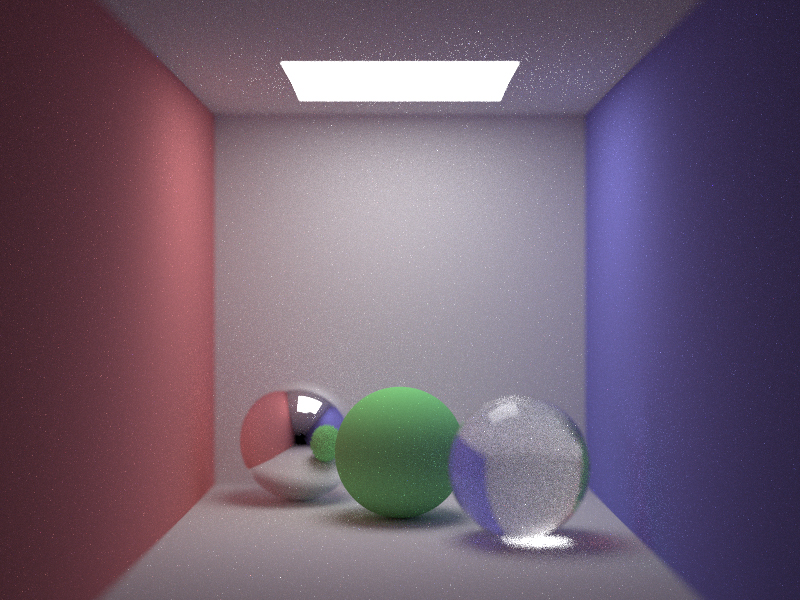
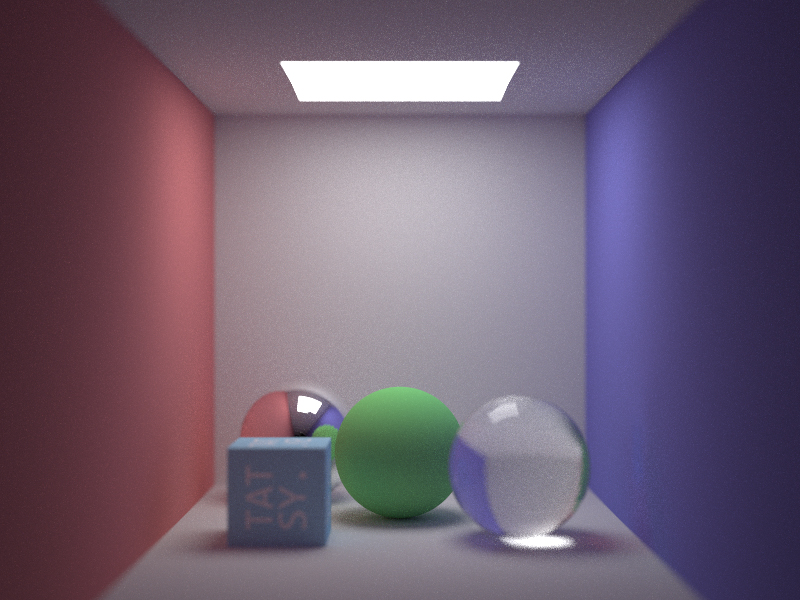
Bug of unidirectional path tracing is fixed.

Changed region(s): [[0.2188, 0.72, 0.4375, 0.93], [0.5938, 0.66, 0.7188, 0.93], [0.5938, 0.81, 0.625, 0.84]]

diff --git a/src/renderer/renderer_helper.cc b/src/renderer/renderer_helper.cc
@@ -32,45 +32,46 @@ namespace spica {
             *v = w.cross(*u);
         }
 
-        bool checkTotalReflection(const bool isIncoming,
+        bool checkTotalReflection(const bool into,
                                   const Vector3D& in,
-                                  const Vector3D& normal,
-                                  const Vector3D& orientNormal,
+                                  const Vector3D& n,
+                                  const Vector3D& on,
                                   Vector3D* reflectDir,
-                                  Vector3D* refractDir,
-                                  double* fresnelRef,
-                                  double* fresnelTransmit) {
+                                  Vector3D* transmitDir,
+                                  double* fresnelRe,
+                                  double* fresnelTr) {
 
-            *reflectDir = Vector3D::reflect(in, normal);
+            *reflectDir = Vector3D::reflect(in, n).normalized();
 
             // Snell's rule
-            const double nnt = isIncoming ? kIorVaccum / kIorObject : kIorObject / kIorVaccum;
-            const double ddn = in.dot(orientNormal);
+            const double nnt = into ? kIorVaccum / kIorObject 
+                                    : kIorObject / kIorVaccum;
+            const double ddn = in.dot(on);
             const double cos2t = 1.0 - nnt * nnt * (1.0 - ddn * ddn);
 
             if (cos2t < 0.0) {
                 // Total reflect
-                *refractDir = Vector3D(0.0, 0.0, 0.0);
-                *fresnelRef = 1.0;
-                *fresnelTransmit = 0.0;
+                *transmitDir = { 0.0, 0.0, 0.0 };
+                *fresnelRe   = 1.0;
+                *fresnelTr   = 0.0;
                 return true;
             }
 
-            *refractDir = (in * nnt - normal * (isIncoming ? 1.0 : -1.0) * (ddn * nnt + sqrt(cos2t))).normalized();
+            *transmitDir = (in * nnt - n * (into ? 1.0 : -1.0) * (ddn * nnt + sqrt(cos2t))).normalized();
 
             const double a = kIorObject - kIorVaccum;
             const double b = kIorObject + kIorVaccum;
             const double R0 = (a * a) / (b * b);
 
-            const double c = 1.0 - (isIncoming ? -ddn : Vector3D::dot(*refractDir, -orientNormal));
-            *fresnelRef = R0 + (1.0 - R0) * (c * c * c * c * c);
-            *fresnelTransmit = 1.0 - (*fresnelRef);
+            const double c = 1.0 - (into ? -ddn : Vector3D::dot(*transmitDir, n));
+            *fresnelRe = R0 + (1.0 - R0) * (c * c * c * c * c);
+            *fresnelTr = (1.0 - (*fresnelRe)) * (nnt * nnt);
 
             return false;
         }
 
         Color radiance(const Scene& scene, const RenderParameters& params,
-                       const Ray& ray, Stack<double>& rands, const int bounces) {
+                       const Ray& ray, Stack<double>& rands, int bounces) {
             if (bounces >= params.bounceLimit()) {
                 return Color::BLACK;
             }

diff --git a/src/renderer/pathtrace.cc b/src/renderer/pathtrace.cc
@@ -101,7 +101,7 @@ namespace spica {
             _result.save(filename);
 
             printf("%6.2f %%  processed -> %s\r",
-                    100.0 * (i + 1) / params.samplePerPixel(), filename);
+                   100.0 * (i + 1) / params.samplePerPixel(), filename);
         }
         printf("\nFinish!!\n");
     }
@@ -154,7 +154,7 @@ namespace spica {
 
         // Account for BSSRDF
         if (bsdf.type() & BsdfType::Bssrdf) {
-            Assertion(_integrator != NULL,
+            Assertion(_integrator != nullptr,
                       "Subsurface intergrator is NULL !!");
             bssrdfRad = bsdf.sampleBssrdf(ray.direction(),
                                           isect.position(),
@@ -185,7 +185,7 @@ namespace spica {
                                      const Vector3D& n, const Color& refl, 
                                      int bounces, Stack<double>& rstk) const {
         // Acquire random numbers
-        const double rands[3] = { rstk.pop(), rstk.pop(), rstk.pop() };
+        const double rands[2] = { rstk.pop(), rstk.pop() };
 
         const BSDF&  bsdf = scene.getBsdf(triID);
 
@@ -220,17 +220,25 @@ namespace spica {
             Vector3D nextdir;
             bsdf.sample(in, n, rands[0], rands[1], &nextdir, &pdf);
             
+            Vector3D on = in.dot(n) < 0.0 ? n : -n;
+
             Intersection isect;
             if (scene.intersect(Ray(v, nextdir), &isect)) {
-                const int objID = isect.objectID();
-                if (scene.isLightCheck(objID)) {
+                if (scene.isLightCheck(isect.objectID())) {
+                    if (bsdf.type() == BsdfType::Refractive) {
+                        if(on.dot(nextdir) < 0.0) {
+                            // printf("pdf = %f\n", pdf);   
+                            // return {};
+                        } else {
+                            // printf("pdf = %f\n", pdf);                            
+                        }
+                    }
                     return (refl * scene.directLight(nextdir)) / pdf;
                 }
             }
         } else {
-            std::cerr << "Invalid BSDF detected: this is "
-                         "neigher scattering nor dielectric!!" << std::endl;
-            std::abort();
+            SpicaError("Invalid BSDF detected: this is "
+                       "neigher scattering nor dielectric!!");
         }
         return Color(0.0, 0.0, 0.0);
     }

diff --git a/src/renderer/bdpt.cc b/src/renderer/bdpt.cc
@@ -136,7 +136,7 @@ namespace spica {
                 return 0.0;
             } else if (fromVert.objtype == ObjectType::Dielectric) {
                 const BSDF& bsdf = scene.getBsdf(fromVert.objectID);
-                if (bsdf.type() == BsdfType::Reflactive) {
+                if (bsdf.type() == BsdfType::Refractive) {
                     if (prevFromVertex != nullptr) {
                         const Vector3D intoFromVertexDir = (fromVert.position - prevFromVertex->position).normalized();
                         const bool isIncoming = intoFromVertexDir.dot(fromVert.objectNormal) < 0.0;
@@ -320,7 +320,7 @@ namespace spica {
                     const Vector3D nextDir = Vector3D::reflect(currentRay.direction(), isect.normal());
                     currentRay = Ray(isect.position(), nextDir);
                     throughput = isect.color() * throughput / (toNextVertex.normalized().dot(orientNormal));
-                } else if (bsdf.type() == BsdfType::Reflactive) {
+                } else if (bsdf.type() == BsdfType::Refractive) {
                     const bool isIncoming = isect.normal().dot(orientNormal) > 0.0;
 
                     Vector3D reflectdir, transdir;
@@ -435,7 +435,7 @@ namespace spica {
                     nowRay = Ray(isect.position(), nextDir);
                     throughput = refl * throughput / (toNextVertex.normalized().dot(orientNormal));
 
-                } else if (bsdf.type() == BsdfType::Reflactive) {
+                } else if (bsdf.type() == BsdfType::Refractive) {
                     const bool isIncoming = isect.normal().dot(orientNormal) > 0.0;
 
                     Vector3D reflectdir, transdir;

diff --git a/src/renderer/renderer_helper.h b/src/renderer/renderer_helper.h
@@ -14,9 +14,9 @@ namespace spica {
 
         /** Calculate u and v axes from w, which is the surface normal.
          */
-        void SPICA_EXPORTS calcLocalCoords(const Vector3D& w, Vector3D* u, Vector3D* v);
+        SPICA_EXPORTS void calcLocalCoords(const Vector3D& w, Vector3D* u, Vector3D* v);
 
-        bool SPICA_EXPORTS checkTotalReflection(const bool isIncoming,
+        SPICA_EXPORTS bool checkTotalReflection(const bool isIncoming,
                                                 const Vector3D& in,
                                                 const Vector3D& normal,
                                                 const Vector3D& orientNormal,
@@ -32,10 +32,10 @@ namespace spica {
          *  @param[in] rseq: random number sequence
          *  @param[in] bounces: # of bounces
          */
-        Color SPICA_EXPORTS radiance(const Scene& scene, const RenderParameters& params,
+        SPICA_EXPORTS Color radiance(const Scene& scene, const RenderParameters& params,
                                      const Ray& ray, Stack<double>& rands, int bounces);
 
-        Color SPICA_EXPORTS directLight(const Scene& scene,
+        SPICA_EXPORTS Color directLight(const Scene& scene,
                                         const Vector3D& pos,
                                         const Vector3D& in,
                                         const Vector3D& normal, 

diff --git a/src/bsdf/brdf.cc b/src/bsdf/brdf.cc
@@ -125,22 +125,22 @@ namespace spica {
         const bool isTotalReflectance = helper::checkTotalReflection(into, in, normal, orientingNormal, &reflectdir, &transmitdir, &fresnelRe, &fresnelTr);
     
         if (isTotalReflectance) {
-            *out = reflectdir;
-            *pdf = 1.0;
+            (*out) = reflectdir;
+            (*pdf) = 1.0;
         } else {
-            const double probability = 0.25 + 0.5 * kReflectProbability;
+            const double probability = 0.25 + 0.5 * fresnelRe;
             if (rand1 < probability) {
-                *pdf = probability / fresnelRe;
-                *out = reflectdir;
+                (*pdf) = probability / fresnelRe;
+                (*out) = reflectdir;
             } else {
-                *pdf = (1.0 - probability) / fresnelTr;
-                *out = transmitdir;
+                (*pdf) = (1.0 - probability) / fresnelTr;
+                (*out) = transmitdir;
             }
         }
     }
 
     BSDF RefractiveBSDF::factory(const Color& reflectance) {
-        return std::move(BSDF(new RefractiveBSDF(reflectance), BsdfType::Reflactive));
+        return std::move(BSDF(new RefractiveBSDF(reflectance), BsdfType::Refractive));
     }
 
     BSDFBase* RefractiveBSDF::clone() const {

diff --git a/src/scenes/predefined_scenes.cc b/src/scenes/predefined_scenes.cc
@@ -46,9 +46,9 @@ namespace spica {
         scene->addShape(Sphere(Vector3D( 0.0, -7.0,  0.0), 3.0),
                         LambertianBRDF::factory(Color(0.25, 0.75, 0.25)));
         scene->addShape(Sphere(Vector3D(-5.0, -7.0, -5.0), 3.0),
-                        SpecularBRDF::factory(Color(0.99, 0.99, 0.99)));
+                        SpecularBRDF::factory(Color(0.999, 0.999, 0.999)));
         scene->addShape(Sphere(Vector3D( 5.0, -7.0,  5.0), 3.0),
-                        RefractiveBSDF::factory(Color(0.99, 0.99, 0.99)));
+                        RefractiveBSDF::factory(Color(0.999, 0.999, 0.999)));
 
         Trimesh texcube(kDataDirectory + "tex_cube.obj");
         texcube.rotate(PI / 2.0, Vector3D(0.0, 1.0, 0.0));

diff --git a/src/bsdf/bsdf.h b/src/bsdf/bsdf.h
@@ -34,7 +34,7 @@ namespace spica {
         Lambertian  = 0x0001 | Scatter,  /**< Lambertian reflection */     
         Specular    = 0x0002 | Dielectric,  /**< Specular reflection */
         PhongBrdf   = 0x0004 | Scatter,  /**< Phong's BRDF */
-        Reflactive  = 0x0008 | Dielectric,  /**< Refractive object */
+        Refractive  = 0x0008 | Dielectric,  /**< Refractive object */
     };
 
     inline BsdfType operator|(BsdfType t1, BsdfType t2) {

diff --git a/src/bsdf/bsdf.cc b/src/bsdf/bsdf.cc
@@ -81,7 +81,7 @@ namespace spica {
         Color transRad(0.0, 0.0, 0.0);
 
         // Reflactive object should be considered differently
-        if (_type & BsdfType::Reflactive) {
+        if (_type & BsdfType::Refractive) {
             const bool into = in.dot(normal) < 0.0;
             const Vector3D orientN = into ? normal : -normal;
             Vector3D refdir, transdir;

diff --git a/src/core/image.cc b/src/core/image.cc
@@ -479,7 +479,7 @@ namespace spica {
         sprintf(buffer, "EXPOSURE=1.0000000000000%c%c", ret, ret);
         ofs.write(buffer, strlen(buffer));
 
-        sprintf(buffer, "-Y %ld +X %ld%c", _height, _width, ret);
+        sprintf(buffer, "-Y %u +X %u%c", _height, _width, ret);
         ofs.write(buffer, strlen(buffer));
 
         std::vector<unsigned char> pixbuf;
